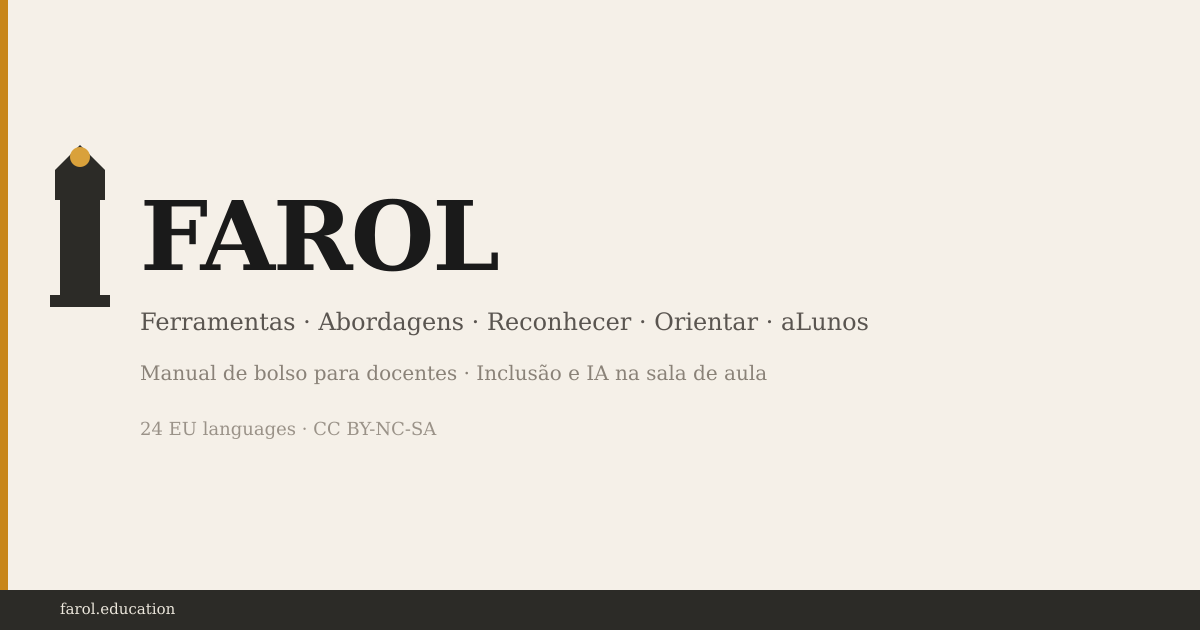
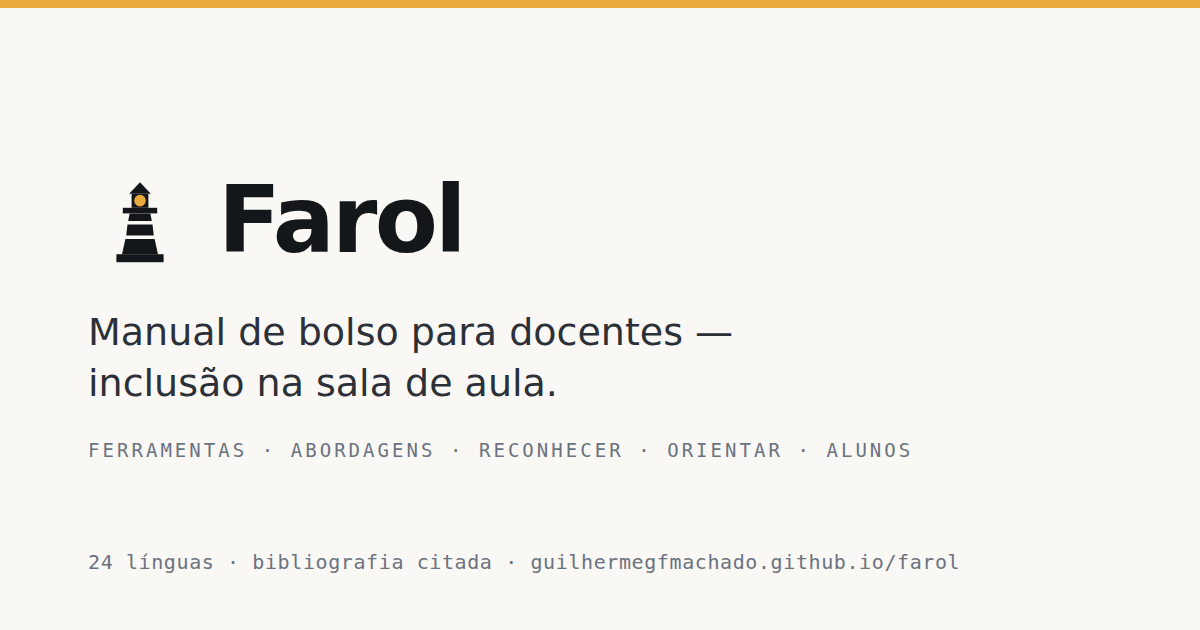
redesign(brand): make the lighthouse mark read as a lighthouse
The old mark was a straight vertical shaft with a domed cap and a small collar.
At the sizes it is actually used — 14–26px in the header, and larger in the app
icon — the silhouette read as something other than a lighthouse, and the side
beams that disambiguated it are hidden in light mode by design.

New mark: bottom-heavy tapered tower, overhanging gallery, two stripe gaps and a
wide plinth. The taper and the bands are the cues that survive down to 14px, so
it reads correctly without depending on the beacon being lit.

Applied everywhere the mark appears: the header component on every page, the
favicon, the PWA icons, the iOS touch icon, the offline page and the link
preview image.

The preview card is rebuilt too — it previously advertised "farol.education", a
domain that does not exist, and set the text in Georgia rather than the site's
own faces. scripts/render-icons.mjs now derives every raster from one SVG source
so the four files cannot drift apart again.

Claude-Session: https://claude.ai/code/session_01NAJU4SkMKCVVmFbHs72Dg3

diff --git a/public/offline.html b/public/offline.html
@@ -30,9 +30,16 @@
 <body>
   <main>
     <svg class="mark" viewBox="0 0 32 32" fill="none" xmlns="http://www.w3.org/2000/svg" aria-hidden="true">
-      <rect x="13" y="11" width="6" height="14" fill="currentColor"/>
-      <rect x="11" y="24" width="10" height="2" fill="currentColor"/>
-      <rect x="12" y="8" width="8" height="4" fill="#e8a93d"/>
+      <g transform="translate(3 3)">
+        <path d="M10.3 6.2 L13 3.3 L15.7 6.2 Z" fill="currentColor"/>
+        <rect x="10.9" y="6.2" width="4.2" height="3.5" fill="currentColor"/>
+        <rect x="8.7" y="9.7" width="8.6" height="1.4" fill="currentColor"/>
+        <path d="M10.4 11.1 L15.6 11.1 L15.95 13.0 L10.05 13.0 Z" fill="currentColor"/>
+        <path d="M9.87 13.9 L16.13 13.9 L16.45 16.6 L9.55 16.6 Z" fill="currentColor"/>
+        <path d="M9.35 17.5 L16.65 17.5 L17.5 21.3 L8.5 21.3 Z" fill="currentColor"/>
+        <rect x="7.1" y="21.3" width="11.8" height="2" fill="currentColor"/>
+        <circle cx="13" cy="7.9" r="1.45" fill="#e8a93d"/>
+      </g>
     </svg>
     <h1>Sem ligação à internet</h1>
     <p>Esta página ainda não foi guardada para uso offline. As páginas que já visitou continuam disponíveis sem ligação.</p>

diff --git a/README.md b/README.md
@@ -26,6 +26,14 @@ npm run dev      # http://localhost:4321
 npm run build    # gera dist/ e carimba a versão do service worker
 ```
 
+A marca vive em `src/components/LighthouseMark.astro` e em `public/favicon.svg`.
+Depois de a alterar, regenerar os ficheiros derivados (ícones da PWA, ícone iOS e
+a imagem de pré-visualização das ligações):
+
+```bash
+npm i --no-save playwright-core && node scripts/render-icons.mjs
+```
+
 ## Estrutura
 
 ```
